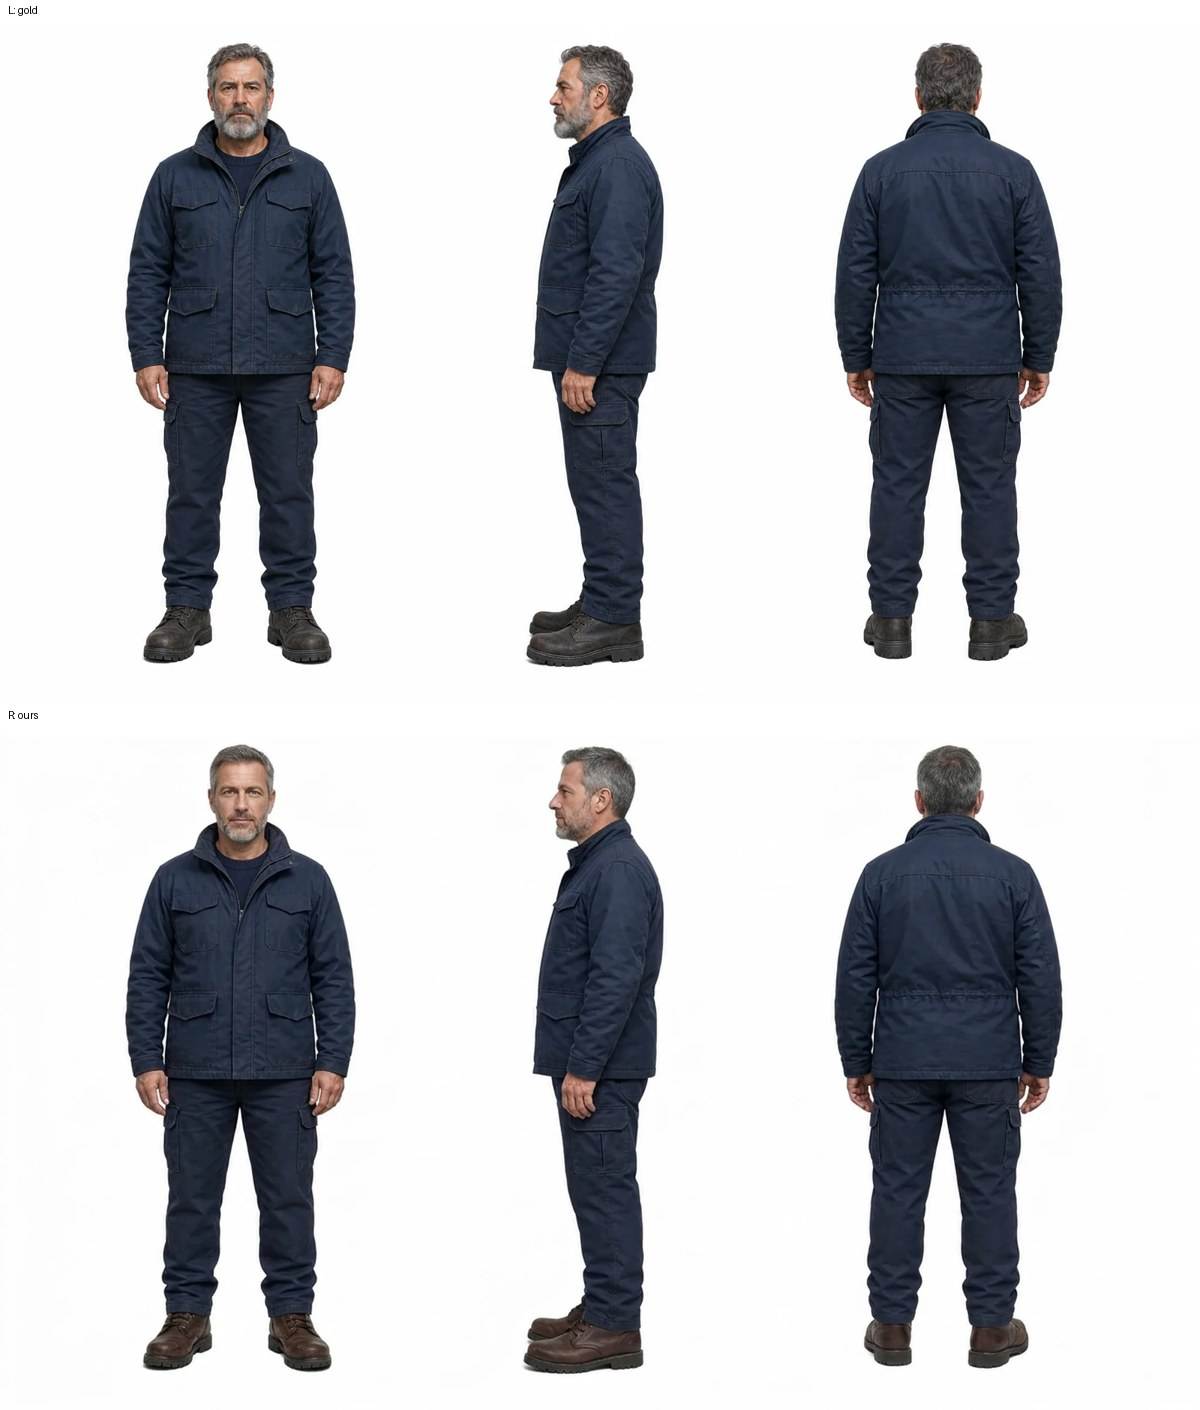
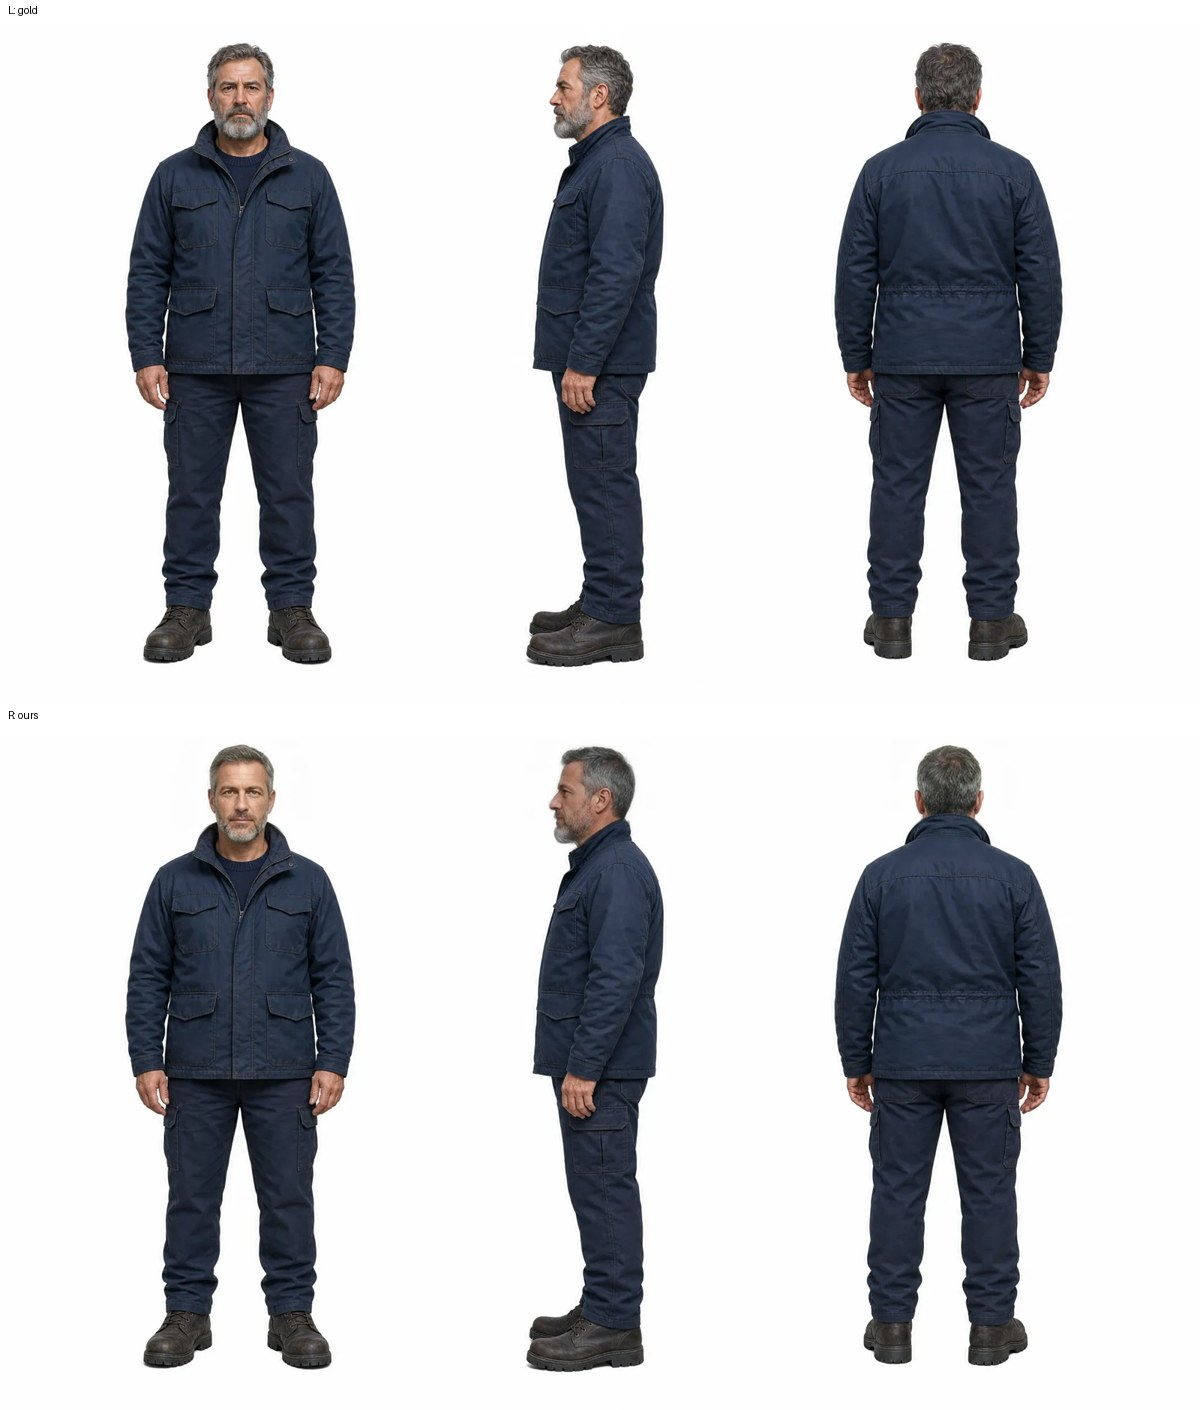
feat(#687): character ex01 local head composite (SOP, $0) + composite_head.py

diff --git a/docs/design/687/next/character/composite_head.py b/docs/design/687/next/character/composite_head.py
@@ -1,0 +1,24 @@
+"""Local head/face composite (SOP, $0): paste ONLY head+hair ellipses from a generated sheet onto the gold.
+usage: python3 composite_head.py gold gen out '[[cx,cy,rx,ry],...]' [feather_px]
+- gen is resized to gold size (generated sheets keep gold layout); everything outside the ellipses stays gold pixels.
+- per ellipse: LAB mean/std of gen skin/hair is matched to gold inside a thin ring around the lower ellipse (neck seam),
+  then alpha-blended with a Gaussian-feathered mask."""
+import sys,json,numpy as np,cv2
+g=cv2.imread(sys.argv[1]);o=cv2.resize(cv2.imread(sys.argv[2]),(g.shape[1],g.shape[0]),interpolation=cv2.INTER_LANCZOS4)
+E=json.loads(sys.argv[4]);F=int(sys.argv[5]) if len(sys.argv)>5 else 24
+out=g.astype(np.float32)
+for cx,cy,rx,ry in E:
+    m=np.zeros(g.shape[:2],np.uint8);cv2.ellipse(m,(cx,cy),(rx,ry),0,0,360,255,-1)
+    ring=np.zeros_like(m);cv2.ellipse(ring,(cx,cy),(rx+F,ry+F),0,0,360,255,-1);ring[m>0]=0;ring[:cy]=0
+    fg=(cv2.cvtColor(g,cv2.COLOR_BGR2GRAY)<235)  # ignore white background in seam stats
+    sel=(ring>0)&fg
+    lo=cv2.cvtColor(o,cv2.COLOR_BGR2LAB).astype(np.float32);lg=cv2.cvtColor(g,cv2.COLOR_BGR2LAB).astype(np.float32)
+    if sel.sum()>50:
+        for c in range(3):
+            lo[...,c]=(lo[...,c]-lo[...,c][sel].mean())*(lg[...,c][sel].std()+1)/(lo[...,c][sel].std()+1)*0.3+ (lo[...,c]-lo[...,c][sel].mean())*0.7+lg[...,c][sel].mean()
+    oc=cv2.cvtColor(np.clip(lo,0,255).astype(np.uint8),cv2.COLOR_LAB2BGR).astype(np.float32)
+    wb=cv2.GaussianBlur((cv2.cvtColor(o,cv2.COLOR_BGR2GRAY)>232).astype(np.float32),(0,0),3)[...,None]
+    oc=oc*(1-wb)+o.astype(np.float32)*wb  # keep white background untouched by colour match
+    a=cv2.GaussianBlur(m.astype(np.float32)/255,(0,0),F/2)[...,None]
+    out=out*(1-a)+oc*a
+cv2.imwrite(sys.argv[3],np.clip(out,0,255).astype(np.uint8),[cv2.IMWRITE_WEBP_QUALITY,92]);print('ok',g.shape)

diff --git a/docs/design/687/next/HANDOFF.md b/docs/design/687/next/HANDOFF.md
@@ -5,3 +5,4 @@
 - Next: design review of social ex01/03/04/05 + character ex01 pilot; on PASS run `jobs/c_ex02..06.json` (runner /workspace/g687, `set -a; . secrets env`).
 - Spend: $0.2646 / $0.50 actual (7 calls). Balance: $43.907449.
 - Accounting (tech lead 22:53): per-call cost attributed by prediction id (7 ids in calls.jsonl, `attributed` 0.0378 each = $0.2646). The prediction result record has no charge field, so attribution = per-call balance delta, each exactly $0.0378. Reconciliation: balance 44.172049 → 43.907449 = $0.2646, diff vs attributed $0.0000 (≤ $0.01 OK). All calls done before the smoke started spending.
+- 22:58 CST character ex01 redone per SOP, $0, no generation: `character/composite_head.py` pastes only head+hair ellipses (front/side/back) from the pilot output onto gold, 22px feather, LAB colour match on the neck ring, white bg untouched. Outside the masks = gold (mean abs diff ≈ webp noise). Shoes/jacket/pose stay gold (so the "brown shoes" tweak is dropped). OCR: no text. ex02-06 HELD until tester smoke done + design PASS. Spend unchanged $0.2646; balance $43.907449.
